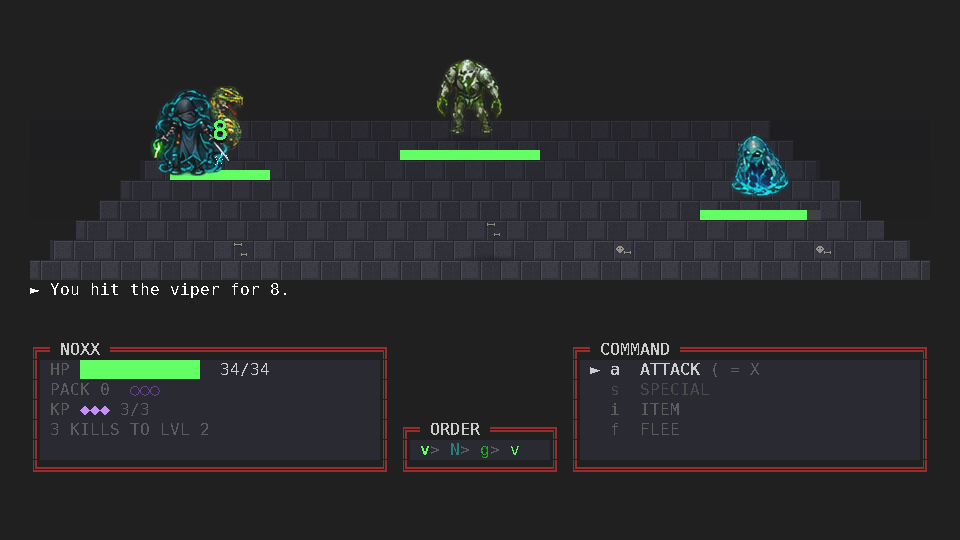
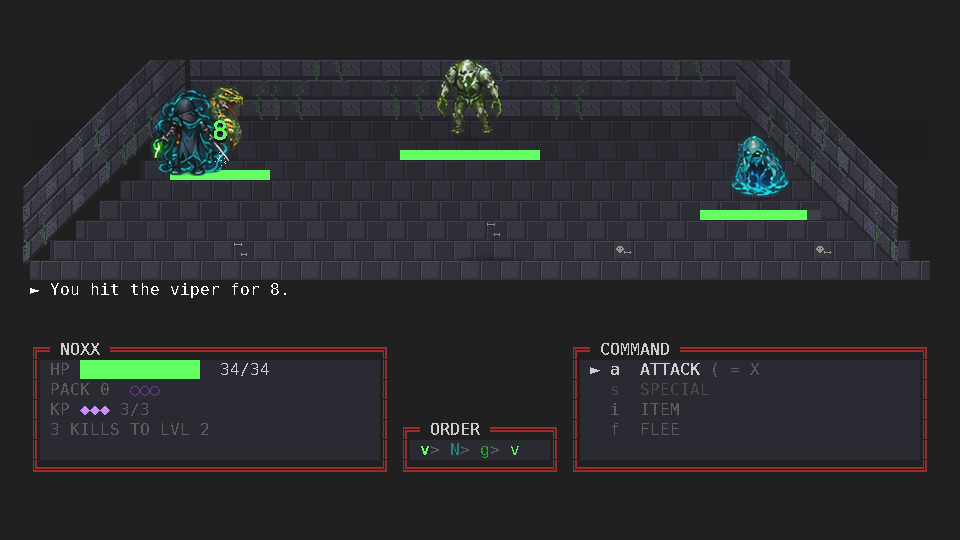
the room gets its walls on the second front end
Three planes of the same stone: the far wall facing the camera, which needs no
shear, and the two at the sides, which are the floor's own edges standing up --
each the *same* transform of the same tile, with a shade on every stone that gets
darker toward the far corner. The Qt build draws them with a `QTransform`; a
blitter has no matrix, so this does what a shear *is*: one column of one-pixel
strips at a walking offset.

Which would be absurd every frame and costs nothing once, so the whole room is
built on the first paint of a window size and blitted after. Measured: eleven
milliseconds for the build, ten for a plain frame. The stones themselves are
cached too, shaded and -- for the sides -- sheared once each, keyed by what they
were asked for.

Two things came out of doing it honestly:

* `BattleScreen._stone` names the stone at a place instead of loading it, the way
  `_floor_stone` already learned to. The naming is the *room's* rule and loading
  is the painter's, and that split is the only reason a front end with no
  QPainter can lay the same wall.
* The shade is a flat wash -- `_shade` is a rectangle of the room's own dark at an
  alpha -- so it is baked into the stone before the shear, which is the same
  thing and one pass cheaper. (Reading it was the work; it looked, from the call
  sites, like it might have been a gradient.)

The fallback is here too, because the alphabet is underneath every picture in this
[…]

Changed region(s): [[0.0, 0.0889, 0.4688, 0.4741], [0.5, 0.0889, 0.9375, 0.4741]]

diff --git a/src/neverdeads_revenge/sdl_front/stage.py b/src/neverdeads_revenge/sdl_front/stage.py
@@ -23,7 +23,9 @@ this one.
 
 from __future__ import annotations
 
-from ..desktop.screens.battle import BattleScreen
+import math
+
+from ..desktop.screens.battle import FAR_LIGHT, WALL_FAR, WALL_NEAR, BattleScreen
 from ..desktop.theme import parse_style
 from .paint import load
 
@@ -46,6 +48,11 @@ class Stage:
     def __init__(self) -> None:
         self._washes: dict[tuple[int, int, int], object] = {}
         self._shadow: object | None = None
+        #: The stones, shaded, and the whole wall built out of them -- both kept,
+        #: because masonry does not change and a shear is not something to do
+        #: every frame. Keyed by what they were asked for.
+        self._stones: dict[tuple[str, int], object] = {}
+        self._walls: dict[tuple, object] = {}
 
     # -- the art ------------------------------------------------------------
     def tile(self, name: str):
@@ -114,6 +121,104 @@ class Stage:
             strip.fill((*FADE_COLOUR, alpha))
             self._washes[key] = strip
         return strip
+
+    # -- the room around it -------------------------------------------------
+    def wall(self, surface, field) -> bool:
+        """The room: three planes of the same stone, built once and blitted.
+
+        The far wall faces the viewer and needs no shear; the two at the sides
+        are the floor's own edges standing up, so each is the *same* transform of
+        the same tile. A shear is a column of one-pixel strips at a walking
+        offset -- far too much to do every frame and nothing at all to do once --
+        so the whole thing is built on the first frame of a window size and
+        blitted after that. Returns whether there was any wall art to build from.
+        """
+        key = tuple(sorted(field.items()))
+        if key not in self._walls:
+            self._walls[key] = self._build_wall(field, surface.get_size())
+        built = self._walls[key]
+        if built is None:
+            return False
+        surface.blit(built, (0, 0))
+        return True
+
+    def _build_wall(self, field, size):
+        """The three planes, on their own surface, with the shade baked in."""
+        import pygame
+
+        art = self.tile("wall")
+        if art is None:
+            return None
+        wall = _blank(size)
+        tw, th = art.get_width(), art.get_height()
+        left = float(field["left"])
+        inset = float(field["inset_px"])
+        ground_top = float(field["top"])
+        wall_top = float(field.get("wall_top", ground_top - 60.0))
+        bottom = float(field["bottom"])
+        down = max(1, math.ceil((ground_top - wall_top) / th))
+
+        # The far wall: laid *up* from the floor's own edge, because a wall that
+        # grew downwards would be standing on the floor.
+        across = max(1, math.ceil((float(field["width_px"]) - inset * 2) / tw))
+        for index in range(across):
+            x = round(left + inset + index * tw)
+            for course in range(down):
+                stone = self._stone(BattleScreen._stone(index, course), FAR_LIGHT)
+                if stone is not None:
+                    wall.blit(stone, (x, round(ground_top - (course + 1) * th)))
+
+        # And the two sides, sheared along the floor's own edge -- the light
+        # coming from the hero's end, so the far corner is the darkest thing.
+        edge_x, edge_y = float(field["edge_x"]), float(field["edge_y"])
+        steps = max(1, round(float(field["edge_len"]) / tw))
+        for side in (0, 1):
+            ux = edge_x if side == 0 else -edge_x
+            if side:
+                ax0 = float(field["right"]) - inset
+                ax1 = float(field["right"])
+            else:
+                ax0, ax1 = left + inset, left
+            ay0, ay1 = ground_top, bottom
+            for step in range(steps):
+                along = (step + 0.5) / steps
+                ax = ax0 + (ax1 - ax0) * along
+                ay = ay0 + (ay1 - ay0) * along
+                for course in range(down):
+                    stone = self._stone(
+                        BattleScreen._stone(step, course), FAR_LIGHT - along * 0.75
+                    )
+                    if stone is not None:
+                        _shear_into(
+                            wall, stone, ux, edge_y, ax - tw // 2, ay - (course + 1) * th
+                        )
+
+        # The clip: courses climb, and a wall does not have to cover the sky.
+        if wall_top > 0:
+            wall.fill((0, 0, 0, 0), pygame.Rect(0, 0, size[0], round(wall_top)))
+        return wall
+
+    def _stone(self, name: str, how_much: float):
+        """One stone, with the room's own dark laid over it, made once.
+
+        The hashes were *drawn* in three greys; a picture cannot be, so the
+        difference between the far wall and the near corner is a wash of the
+        darkness over the top of it -- the same idea, one layer up.
+        """
+        alpha = max(0, min(255, int(150 * how_much)))
+        key = (name, alpha)
+        if key not in self._stones:
+            art = self.tile(name)
+            if art is None:
+                self._stones[key] = None
+            else:
+                art = art.copy()
+                if alpha:
+                    wash = _blank(art.get_size())
+                    wash.fill((6, 6, 10, alpha))
+                    art.blit(wash, (0, 0))
+                self._stones[key] = art
+        return self._stones[key]
 
     # -- what is standing on it ---------------------------------------------
     def health(self, surface, figures, font, shown, hero, fades) -> None:
@@ -205,6 +310,28 @@ class Stage:
         if figure.art is None:
             return None
         return load(figure.art)
+
+
+def _blank(size):
+    """A transparent surface, made the one way: SDL needs the import, too."""
+    import pygame
+
+    return pygame.Surface(size, pygame.SRCALPHA)
+
+
+def _shear_into(target, stone, ux: float, uy: float, ax: float, ay: float) -> None:
+    """Blit a tile as its *plane*: every column shifted up and along.
+
+    Which is what a shear is, done the only way a blitter can do it without a
+    matrix: one column at a time, at a walking offset. Done once per window and
+    never again, which is the whole reason it is affordable.
+    """
+    import pygame
+
+    width, height = stone.get_size()
+    for column in range(width):
+        strip = stone.subsurface(pygame.Rect(column, 0, 1, height))
+        target.blit(strip, (round(ax + ux * column), round(ay + uy * column)))
 
 
 def _bar_colour(ratio: float) -> str:

diff --git a/src/neverdeads_revenge/desktop/screens/battle.py b/src/neverdeads_revenge/desktop/screens/battle.py
@@ -2654,7 +2654,7 @@ class BattleScreen(Screen):
             x = int(left + inset_px + index * art.width())
             for course in range(down):
                 y = int(ground_top - (course + 1) * art.height())
-                stone = self._stone(index, course)
+                stone = tile(self._stone(index, course)) or art
                 painter.drawImage(x, y, stone)
                 self._shade(painter, x, y, stone, far_ink, FAR_LIGHT)
 
@@ -2685,7 +2685,7 @@ class BattleScreen(Screen):
                 # *above* the line its edge is on, which is where a wall is --
                 # and courses of them, because one course is a kerb.
                 for course in range(down):
-                    stone = self._stone(step, course)
+                    stone = tile(self._stone(step, course)) or art
                     painter.drawImage(
                         -art.width() // 2, -(course + 1) * art.height(), stone
                     )
@@ -2719,16 +2719,17 @@ class BattleScreen(Screen):
         return f"floor_{tone}"
 
     @staticmethod
-    def _stone(along: int, course: int):
-        """Which stone is at this place in a wall: mostly plain, sometimes not.
+    def _stone(along: int, course: int) -> str:
+        """Which stone is at this place in a wall, by name: mostly plain,
+        sometimes not.
 
         Chosen from the place in the wall and not rolled for, so the scattered
-        bones stay where they were laid: a room that re-dressed itself every frame
-        would be a room made of flicker.
+        vines stay where they grew: a room that re-dressed itself every frame
+        would be a room made of flicker. Named and not loaded -- the same split
+        the floor's stones keep -- so a front end with no QPainter can lay the
+        same wall.
         """
-        plain = tile("wall")
-        wanted = WALL_STONES[_scatter(along, course) % len(WALL_STONES)]
-        return tile(wanted) or plain
+        return WALL_STONES[_scatter(along, course) % len(WALL_STONES)]
 
     def _shade(
         self,

diff --git a/src/neverdeads_revenge/sdl_front/arena.py b/src/neverdeads_revenge/sdl_front/arena.py
@@ -122,6 +122,8 @@ class SdlArena(Screen):
         field = self.arena._field(cols, rows, font.cell_w, font.cell_h)
         fades = {id(one.actor): self.arena._fade(id(one.actor)) for one in figures}
         self._stage.floor(surface, field)
+        if not self._stage.wall(surface, field):
+            self._hash_walls(surface, app, field)
         self._stage.health(
             surface, figures, font, self.arena._shown, self.battle.hero, fades
         )
@@ -239,6 +241,30 @@ class SdlArena(Screen):
             glyph = face.glyph(ARROW, colour)
             if glyph is not None:
                 surface.blit(glyph, (centre, above + offset))
+
+    def _hash_walls(self, surface, app, field) -> None:
+        """The room without the art: the dungeon's own ``#``, drawn big.
+
+        The Qt build has the same fallback for the same reason -- the alphabet is
+        underneath every picture in this game, so a machine with no wall art gets
+        the room it always had. Here it is a row of glyphs in the wall's own grey,
+        which is what the grid drew before there were pictures at all.
+        """
+        art = app.font
+        face = self._face(art.path, max(16, art.cell_h * 2))
+        top = int(field.get("wall_top", field["top"] - 60.0))
+        colour = parse_style(WALL_NEAR).fg
+        y = max(0, top)
+        stride = face.cell_w * 2
+        step = 0
+        while y < field["top"] and step < 3:
+            for x in range(0, surface.get_width(), stride):
+                for index in range(2):
+                    glyph = face.glyph("#", colour if index == 0 else parse_style(WALL_FAR).fg)
+                    if glyph is not None:
+                        surface.blit(glyph, (x + index * face.cell_w, y))
+            y += face.cell_h
+            step += 1
 
     def _wounds(self, surface, app, figures, fades) -> None:
         """What is eating each monster, at the end of its bar.

diff --git a/tests/test_sdl_front.py b/tests/test_sdl_front.py
@@ -1110,3 +1110,37 @@ def test_every_menu_is_qt_free_too():
     )
     assert result.returncode == 0, result.stderr
     assert "MENUS-OK" in result.stdout, result.stdout
+
+
+def test_the_room_has_walls_on_the_second_front_end():
+    """Three planes of stone, asked of the frame and of the cache.
+
+    The far wall faces the camera and needs no shear; the two at the sides are the
+    floor's own edges standing up. Both are built once per window size -- a shear
+    is a column of one-pixel strips at a walking offset, which is nothing to do
+    once and far too much to do every frame -- so the test asks two things: that
+    there is stone in the band above the floor, and that the second frame is a
+    blit of the same surface rather than another build.
+    """
+    from neverdeads_revenge.desktop.theme import BACKGROUND
+    from neverdeads_revenge.sdl_front.app import SdlApp
+
+    app = SdlApp(seed=3, battle_scene=True)
+    arena = app.screens[-1]
+    surface = app._surface
+    cols, rows = arena.arena._dims(app)
+    field = arena.arena._field(cols, rows, app.font.cell_w, app.font.cell_h)
+
+    stone = sum(
+        1
+        for x in range(0, surface.get_width(), 3)
+        for y in range(round(field["wall_top"]), round(field["top"]), 3)
+        if surface.get_at((x, y))[:3] != tuple(BACKGROUND)
+    )
+    assert stone > 200, f"the wall band is empty: {stone} pixels of stone"
+
+    key = tuple(sorted(field.items()))
+    built = arena._stage._walls.get(key)
+    assert built is not None, "the wall was not built at all"
+    app.redraw()
+    assert arena._stage._walls[key] is built, "the wall was built a second time"
